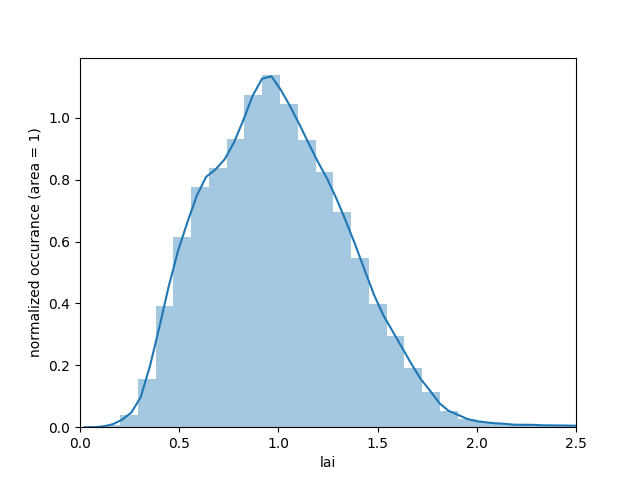
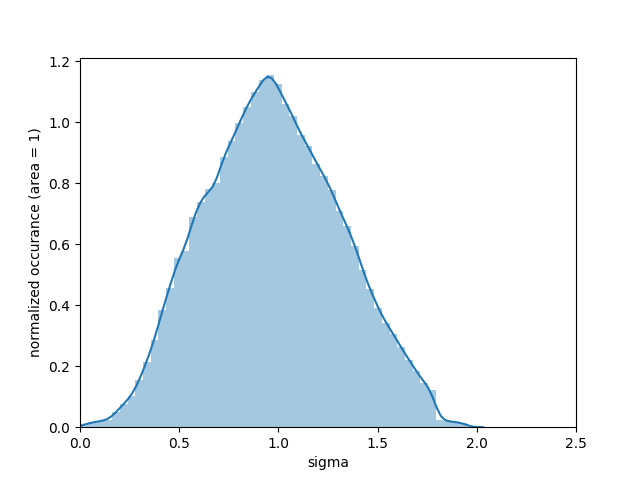
confirmed figs01-04 are good

diff --git a/src/paper_figure_code/fig04.py b/src/paper_figure_code/fig04.py
@@ -4,21 +4,14 @@ This script makes all figs for the paper
 """
 from shared_functions import *
 
+### note mean_df defined at this level)
+
 ### FIGURE 4 ###
 # scaling term as a function of t and g_a
 for key in ['gamma', 'delta', 'rho_a', 'g_a']:
   print('%s var: %f, mean: %f, cf: %f'\
         % (key, df[key].std(), df[key].mean(), df[key].std()/df[key].mean()))
 df['rho_like'] = df['p_a']/(273.15 + df['t_a'])
-
-def scaling(_df, t_a, g_a):
-  """
-  calculates the scaling term (Term 1 in paper) given _df, g_a (contant)
-  and t_a
-  """
-  _atmos = {'t_a' : t_a, 'e_s' : met.vapor_pres(t_a)*d_calc.VP_FACTOR}
-  delta = d_calc.delta(_atmos)
-  return 2.*g_a*_df['rho_like'].mean()/(d_calc.delta(_atmos) + df.gamma.mean())
 
 def plot_scaling(_df, ax, savefig=False):
   """makes idealized plots of scaling as a function of g_a and T"""
@@ -27,7 +20,7 @@ def plot_scaling(_df, ax, savefig=False):
           linewidth=0.5, label='Term 1 mean')
   for percentile in [5., 25., 50., 75., 95.][::-1]:
     g_a = _df.g_a.quantile(q=percentile/100.)
-    scale = scaling(_df, t_a, g_a)
+    scale = d_calc.scaling(mean__df, t_a, g_a)
     ax.plot(t_a, scale, label='$g_a$ = %5.3f (%dth percentile)'\
             % (g_a, int(percentile)))
   ax.set_xlabel('T (C)')
@@ -49,7 +42,7 @@ def plot_scaled_scaling(_df, ax):
   _df = _df.groupby('pft').apply(scaled_mean)
   for percentile in [5., 25., 50., 75., 95.]:
     g_a = _df.scaled_g_a.quantile(q=percentile/100.)
-    scale = scaling(_df, t_a, g_a)
+    scale = d_calc.scaling(mean_df.mean(), t_a, g_a)
     ax.plot(t_a, scale,\
             label=r'$\frac{g_a}{\overline{g_a}}$ = %5.3f (%dth percentile)'\
             % (g_a, int(percentile)))
@@ -70,26 +63,25 @@ def plot_mean_pft(_df, ax, savefig=False):
     t_a = np.linspace(_df.t_a.loc[idx].quantile(q=0.05),\
                       _df.t_a.loc[idx].quantile(q=0.95))
     g_a = _df.g_a.loc[idx].mean()
-    scale = scaling(_df, t_a, g_a)
+    scale = d_calc.scaling(mean_df.loc[pft, :], t_a, g_a)
     ax.plot(t_a, scale, label='PFT = %s, $\overline{g_a}$ = %5.3f'\
             % (pft, g_a))
     ptiles = np.array([_df.t_a.loc[idx].quantile(q=_p/100.)\
                        for _p in [25., 50., 75.]])
-    ax.plot(ptiles, scaling(_df, ptiles, g_a), 'k*')
+    ax.plot(ptiles, d_calc.scaling(mean_df.loc[pft, :], ptiles, g_a), 'k*')
   ax.set_xlabel('T (C)')
   ax.set_ylabel(r'Term 1 ($\frac{g_a \; P}{T(\Delta + \gamma)}$)')
   plt.legend(loc='best', fontsize=8)
   return
 
-def scaling_wrapper(df):
+def scaling_wrapper(_df):
   """wrapper that groups by pft and does scaling plot"""
-
   fig = plt.figure()
   fig.set_figheight(fig.get_figheight()*2)
   ax = fig.add_subplot(2, 1, 1)
-  plot_scaled_scaling(df, ax)
+  plot_scaled_scaling(_df, ax)
   ax = fig.add_subplot(2, 1, 2)
-  plot_mean_pft(df, ax)
+  plot_mean_pft(_df, ax)
   plt.tight_layout()
   plt.savefig('../../doc/paper/fig04.pdf')
   return

diff --git a/src/codebase/data_calc.py b/src/codebase/data_calc.py
@@ -4,6 +4,7 @@
 This module calculates all diagnostics used in the paper
 """
 import numpy as np
+import codebase.data_prep as d_prep
 
 #geophysical constats
 VP_FACTOR = 100. #convert hPa -> Pa
@@ -64,14 +65,21 @@ def sign(_df, vpd=None):
                 *((2.*_df['g1']+np.sqrt(vpd))\
                   /(2.0*(_df['g1']+np.sqrt(vpd))**2))
 
-def scaling(_df):
+def scaling(_df, t_a=None, g_a=None):
   """
   calculates the 'scaling' term of the et derivative w.r.t. vpd,
   note 2.0 factor is from esat-rh decomposition,
   but need to double check this
   """
-  return 2.0*_df['g_a']*_df['p_a']\
-    /(_df['t_a_k']*(_df['delta'] + _df['gamma']))
+  if t_a is None:
+    delta = _df['delta']
+  else:
+    delta = d_prep.delta({'e_s' : d_prep.sat_vapor_press({'t_a' : t_a}),\
+                          't_a' : t_a})
+  if g_a is None:
+    g_a = _df['g_a']
+  return 2.0*g_a*_df['p_a']\
+    /(_df['t_a_k']*(delta + _df['gamma']))
 
 
 def medlyn(_df, vpd=None, gpp=None):
@@ -141,6 +149,8 @@ def all_diagnostics(_df):
   _df['lai_pm'] = lai(_df)
   _df['et_pm_original'] = pm_et_orig(_df)
   _df['pet'] = pet(_df)
+  # below is measure of uncertainty, comaprison to zhou et al
+  _df['sigma'] = _df['uwue']/_df['uwue_zhou']
   dfs = {'mean' : _df.groupby('pft').mean(),\
          'min' : _df.groupby('pft').min(),\
          'max' : _df.groupby('pft').max(),\

diff --git a/src/paper_figure_code/fig03.py b/src/paper_figure_code/fig03.py
@@ -4,25 +4,28 @@ This script makes fig 3 for paper
 """
 from shared_functions import *
 
+plt.close('all')
+
 ### FIGURE 3 ###
 # joint distribution of lai and swc
-df['sigma'] = df['lai'].copy()
+df['sigma'] = df['sigma'].copy()
 meta = {}
 meta['ylim'] = (0., 2.)
 meta['xlim'] = (0., 4000.)
 meta['plot_type'] = '' #'simple'
 meta['x_var'] = 'vpd'
-meta['y_var'] = 'lai'
-plot_tools.scatter_wrapper(df, meta)
-os.system('cp %s/climate_et/scatters/vpd_lai.png ../../doc/paper/fig03.png'\
-          % (os.environ['PLOTS']))
-
 meta['y_var'] = 'sigma'
 plot_tools.scatter_wrapper(df, meta)
+os.system('cp %s/climate_et/scatters/vpd_sigma.png '\
+          '../../doc/paper/fig03.png'\
+          % (os.environ['PLOTS']))
+
 os.system('cp %s/climate_et/scatters/vpd_sigma.png '\
           '../../doc/shared_figs/vpd_sigma.png'\
           % (os.environ['PLOTS']))
 
+# below added for agu, not currently sued in paper but could be
+# useful for supplemental material
 meta['x_var'] = 'e_s'
 meta['y_var'] = 'rh'
 meta['ylim'] = None

diff --git a/src/codebase/test_functions.py b/src/codebase/test_functions.py
@@ -22,9 +22,8 @@ def median_diff(quant1, quant2):
 
 def test_et_model(_df):
   """makes a histogram of calc'd uwue as compated to zhou uwue"""
-  sigma = _df['uwue']/_df['uwue_zhou']
   plt.figure()
-  sns.distplot(sigma)
+  sns.distplot(_df['sigma'])
   plt.xlabel("sigma") #"(calc'ed uwue)/(zhou's uwue)")
   plt.title("PDF for middle 90\% of data")
   plt.savefig('%s/sigma_hist.png' % PLOTDIR)
@@ -63,7 +62,6 @@ def plot_et_curve(mean_row, min_row, max_row, index, _function=pm_et):
   plt.savefig('%s/%s_et_vpd_curve_with_pm.png' % (PLOTDIR, index))
   return
 
-
 def get_bias(models, _df):
   """calcs bias for all three"""
   bias = {}
@@ -90,7 +88,7 @@ def compare_et(_df, mean_df):
   models['new'] = pm_et(cp_df)
   models['original'] = pm_et_orig(cp_df,\
                                   lai=mean_df.lai_pm.loc[_df.pft.iloc[0]]) #1.0
-  models['gppfixed'] = _df['et_gppfixed']
+  # models['gppfixed'] = _df['et_gppfixed']
   models['pet'] = cp_df['pet']
   bias = get_bias(models, _df)
   rmse = get_rmse(models, _df)

diff --git a/src/paper_figure_code/fig02.py b/src/paper_figure_code/fig02.py
@@ -7,21 +7,10 @@ from shared_functions import *
 ### FIGURE 2 ###
 
 meta = {}
-meta['var'] = 'lai'
+meta['var'] = 'sigma'
 meta['folder'] = ''
 meta['folder_label'] = ''
 plot_tools.histogram(df, meta)
-os.system('cp %s/climate_et/histogram/full_lai.png '\
+os.system('cp %s/climate_et/histogram/full_sigma.png '\
           '../../doc/paper/fig02.png' % (os.environ['PLOTS']))
 
-### FIGURE 3 ###
-# joint distribution of lai and swc
-meta = {}
-meta['ylim'] = (0., 2.)
-meta['xlim'] = (0., 4000.)
-meta['plot_type'] = '' #'simple'
-meta['x_var'] = 'vpd'
-meta['y_var'] = 'lai'
-plot_tools.scatter_wrapper(df, meta)
-os.system('cp %s/climate_et/scatters/vpd_lai.png ../../doc/paper/fig03.png'\
-          % (os.environ['PLOTS']))

diff --git a/src/codebase/data_prep.py b/src/codebase/data_prep.py
@@ -35,7 +35,7 @@ def rho_air(_df):
   """returns rho in kg/m3"""
   return _df['p_a']/(_df['r_moist']*(_df['t_a']+273.15))
 
-def saturation_vapor_pressure(_df):
+def sat_vapor_press(_df):
   """returns asturation vapor pressure"""
   return met.vapor_pres(_df['t_a'])*VP_FACTOR
 
@@ -134,7 +134,7 @@ def generate_vars(_df):
   returns updated data structures
   """
   #derived constants
-  _df['e_s'] = saturation_vapor_pressure(_df)
+  _df['e_s'] = sat_vapor_press(_df)
   _df['delta'] = delta(_df)
   _df['gamma'] = gamma(_df)
   _df['r_moist'] = r_moist(_df)

diff --git a/src/paper_figure_code/fig01.py b/src/paper_figure_code/fig01.py
@@ -30,7 +30,7 @@ def make_map(_df):
     # m.drawmeridians(np.arange(0.,420.,60.))
   plt.legend(loc='best')
   plt.tight_layout()
-  util.test_savefig('../../doc/paper/fig01_garb.pdf')
+  util.test_savefig('../../doc/paper/fig01.pdf')
   return
 
 ### FIGURE 1 ###

diff --git a/src/paper_figure_code/shared_functions.py b/src/paper_figure_code/shared_functions.py
@@ -20,6 +20,7 @@ mpl.use('Pdf')
 mpl.rcParams.update(mpl.rcParamsDefault)
 importlib.reload(util)
 importlib.reload(plot_tools)
+importlib.reload(d_calc)
 
 # grab sites actually used in analysis
 with open('%s/changjie/diagnosed_data.pkl' % os.environ['DATA'],\
